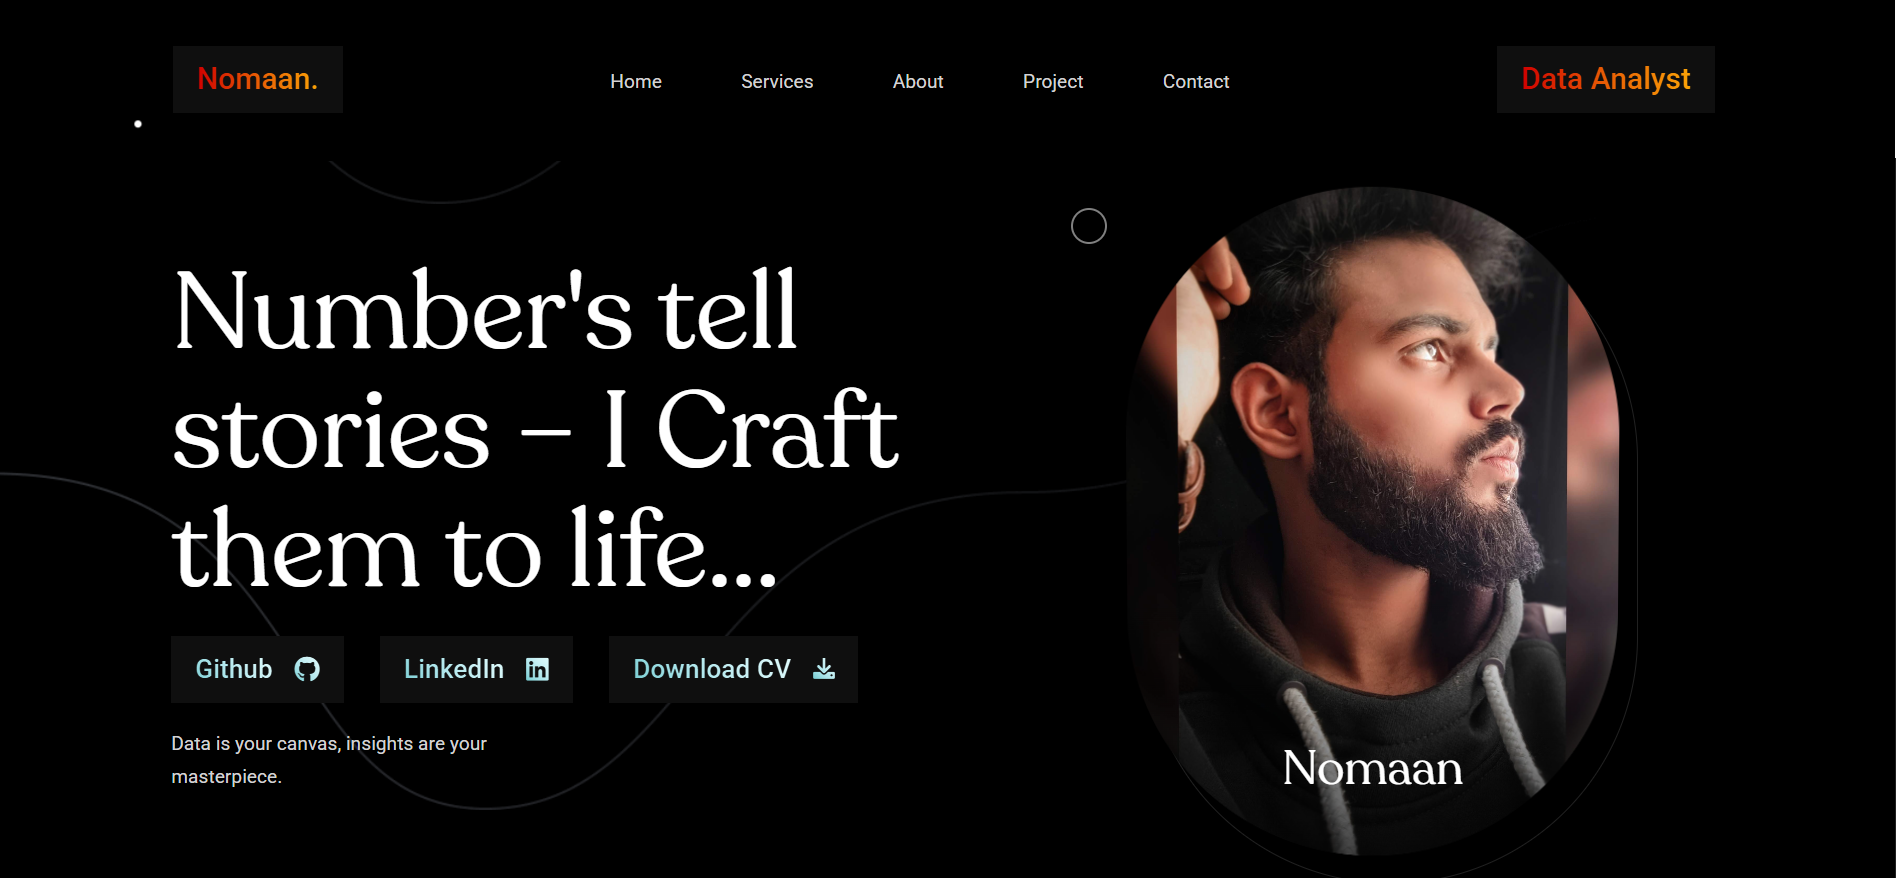
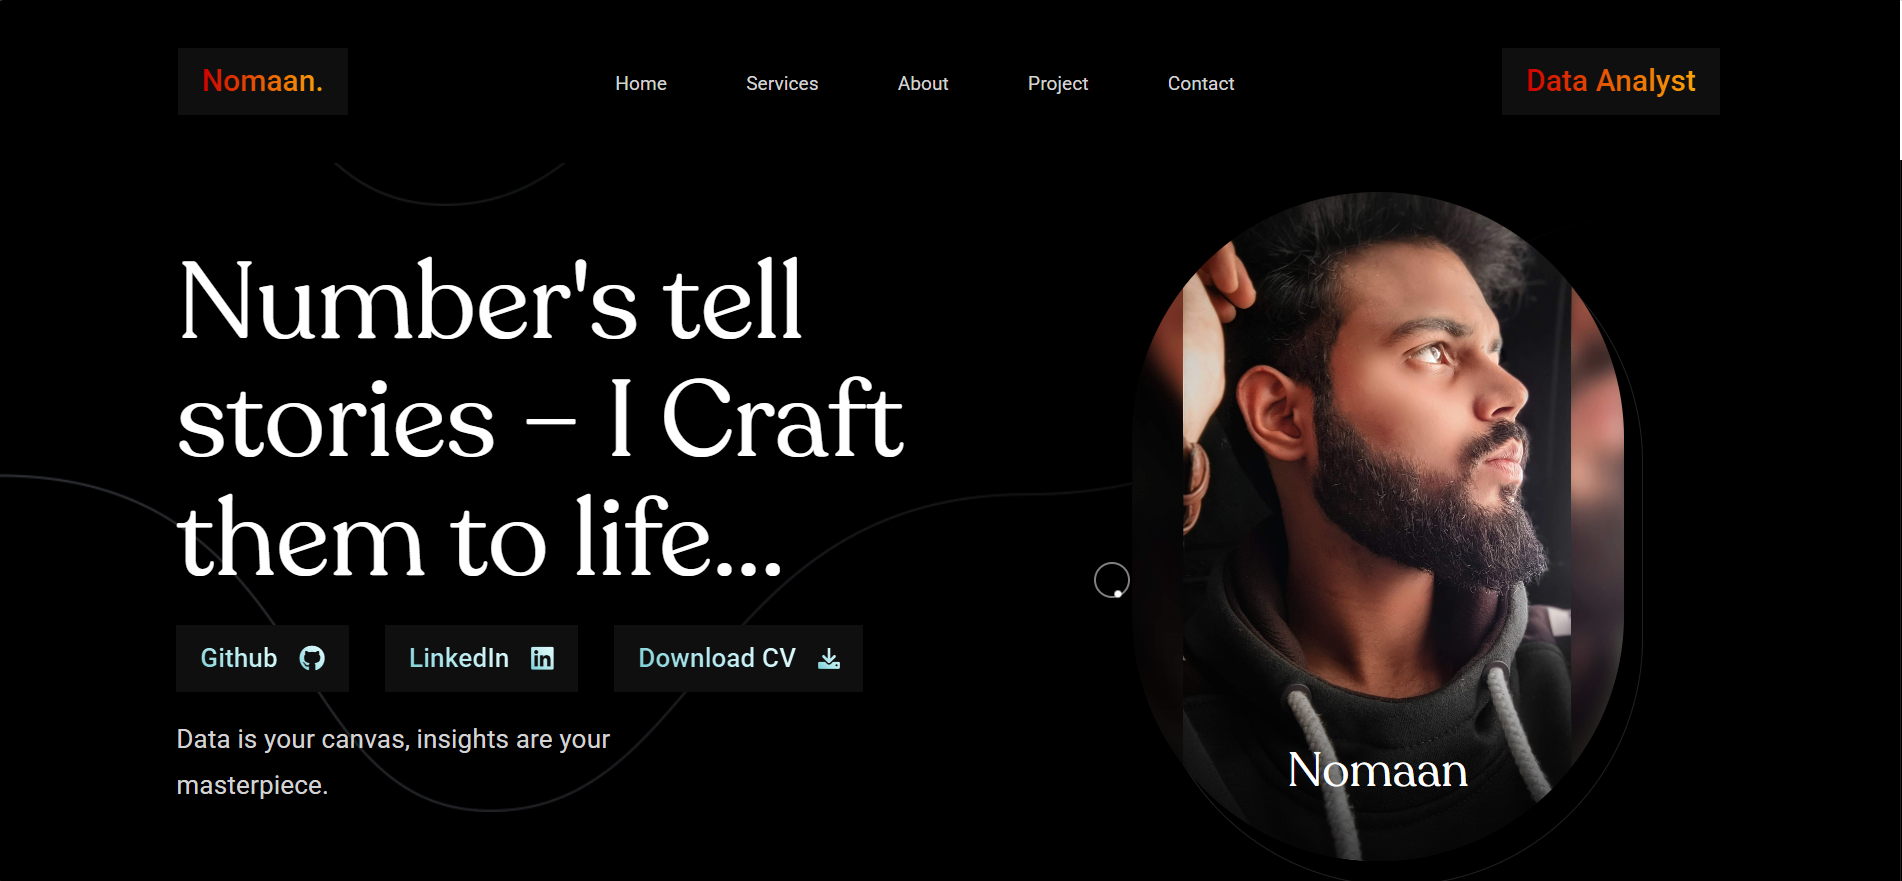
update changes

diff --git a/index.html b/index.html
@@ -69,10 +69,14 @@
       }
 
       .gradient-color {
-          background: linear-gradient(45deg, #d00000, #e85d04, #faa307);
-          background-clip: text;
-            -webkit-text-fill-color: transparent;
-          }
+        background: linear-gradient(45deg, #d00000, #e85d04, #faa307);
+        background-clip: text;
+        -webkit-text-fill-color: transparent;
+      }
+
+       .hero-text {
+        font-size: 22px;
+       } 
   </style>
 
   
@@ -207,6 +211,7 @@
             </div>
 
             <p class="hero-text">
+            
               Data is your canvas, insights are your masterpiece.
             </p>
 
